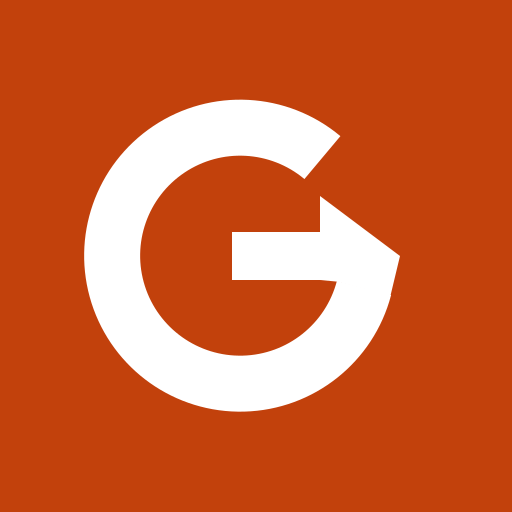
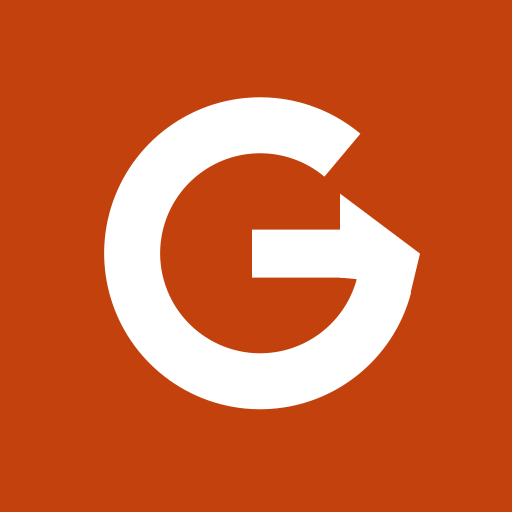
fifth commit

diff --git a/src/components/AuthLayout.jsx b/src/components/AuthLayout.jsx
@@ -7,10 +7,11 @@ export default function AuthLayout({ title, subtitle, children }) {
     <div className="grid min-h-dvh lg:grid-cols-[1.05fr_1fr]">
       <aside className="relative hidden overflow-hidden lg:block">
         <FoodSlideshow />
-        {/* Soft dark shading: a light vignette around the edges and a deeper fade behind the text,
-            so the headline reads clearly while the food stays visible */}
-        <div className="absolute inset-0 z-20 bg-[radial-gradient(ellipse_at_center,transparent_45%,rgb(0_0_0/0.35)_100%)]" />
-        <div className="absolute inset-x-0 bottom-0 z-20 h-3/5 bg-gradient-to-t from-black/85 via-black/45 to-transparent" />
+        {/* Dark shading in three layers: an even tint over the whole photo, darker edges,
+            and a deep fade behind the text so the headline stands out */}
+        <div className="absolute inset-0 z-20 bg-black/35" />
+        <div className="absolute inset-0 z-20 bg-[radial-gradient(ellipse_at_center,transparent_35%,rgb(0_0_0/0.6)_100%)]" />
+        <div className="absolute inset-x-0 bottom-0 z-20 h-2/3 bg-gradient-to-t from-black/95 via-black/65 to-transparent" />
         <div className="relative z-30 flex h-full flex-col justify-end p-12 text-white">
           <p className="text-sm font-semibold tracking-wide text-brand-200 uppercase [text-shadow:0_1px_8px_rgb(0_0_0/0.6)]">{RESTAURANT_NAME}</p>
           <h2 className="mt-2 max-w-md text-4xl leading-tight font-bold [text-shadow:0_2px_16px_rgb(0_0_0/0.55)]">

diff --git a/index.html b/index.html
@@ -9,6 +9,7 @@
     <meta name="mobile-web-app-capable" content="yes" />
     <meta name="apple-mobile-web-app-status-bar-style" content="default" />
     <meta name="apple-mobile-web-app-title" content="Gusto Go" />
+    <link rel="icon" href="/favicon.ico" sizes="32x32" />
     <link rel="icon" type="image/svg+xml" href="/favicon.svg" />
     <link rel="apple-touch-icon" href="/apple-touch-icon.png" />
     <link rel="manifest" href="/manifest.webmanifest" />
@@ -37,7 +38,7 @@
       <div id="boot">
         <svg viewBox="0 0 64 64" aria-label="Gusto Go">
           <circle cx="32" cy="32" r="32" fill="#c2410c" />
-          <g fill="#fff" stroke="#fff" transform="translate(-1 0)">
+          <g fill="#fff" stroke="#fff" transform="translate(1.5 -0.3)">
             <path d="M41.3 19.7A16 16 0 1 0 46.5 36" fill="none" stroke-width="7" />
             <path d="M30 32h13" fill="none" stroke-width="6" />
             <path d="M41 24.5 51 32l-1.2 5-6.7-1.8L41 35z" stroke="none" />

diff --git a/src/components/LogoMark.jsx b/src/components/LogoMark.jsx
@@ -3,7 +3,7 @@ export default function LogoMark({ className = 'size-20' }) {
   return (
     <svg viewBox="0 0 64 64" className={className} role="img" aria-label="Gusto Go">
       <circle cx="32" cy="32" r="32" fill="#c2410c" />
-      <g fill="#fff" stroke="#fff" transform="translate(-1 0)">
+      <g fill="#fff" stroke="#fff" transform="translate(1.5 -0.3)">
         <path d="M41.3 19.7A16 16 0 1 0 46.5 36" fill="none" strokeWidth="7" />
         <path d="M30 32h13" fill="none" strokeWidth="6" />
         <path d="M41 24.5 51 32l-1.2 5-6.7-1.8L41 35z" stroke="none" />
